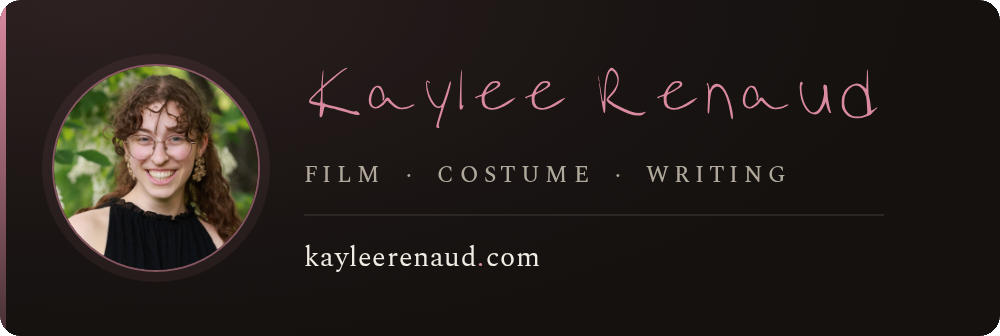
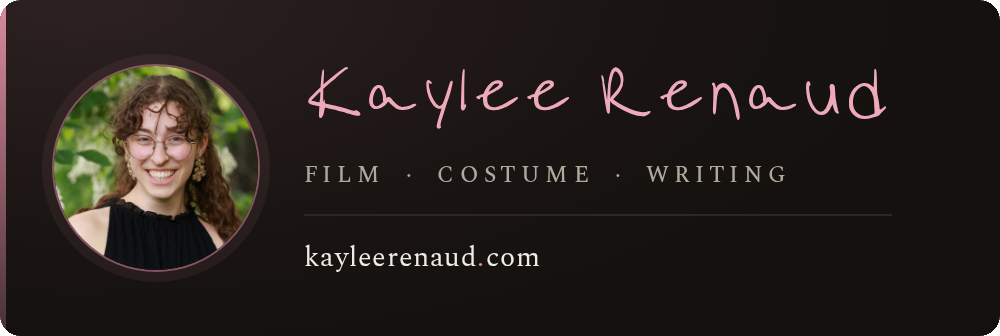
Email signature: bolder, lighter name for email legibility
KayleeScript ships as a single fine monoline weight and went muddy against the
charcoal at email sizes. Adds a 0.7px -webkit-text-stroke faux-bold (Chromium
renders the card, so it's reliable) and lifts the rose from #d98a9e to #eeaabb,
with a touch more letter-spacing so the heavier strokes don't crowd.

Changed region(s): [[0.31, 0.2083, 0.899, 0.3869]]

diff --git a/scripts/email-signature/signature.html b/scripts/email-signature/signature.html
@@ -80,12 +80,17 @@
 
   .body { display: flex; flex-direction: column; justify-content: center; min-width: 0; }
 
+  /* KayleeScript ships as one fine monoline weight, so on the charcoal it goes
+     muddy at email sizes. -webkit-text-stroke fakes a bold (Chromium renders
+     this card, so it's safe), and the rose is lifted a few steps off --accent
+     for more separation from the background. */
   .name {
     font-family: 'Kaylee Script', cursive;
     font-size: 44px;
     line-height: 0.98;
-    color: var(--accent);
-    letter-spacing: 0.005em;
+    color: #eeaabb;
+    -webkit-text-stroke: 0.7px #eeaabb;
+    letter-spacing: 0.012em;
     margin-bottom: 6px;
   }
 
